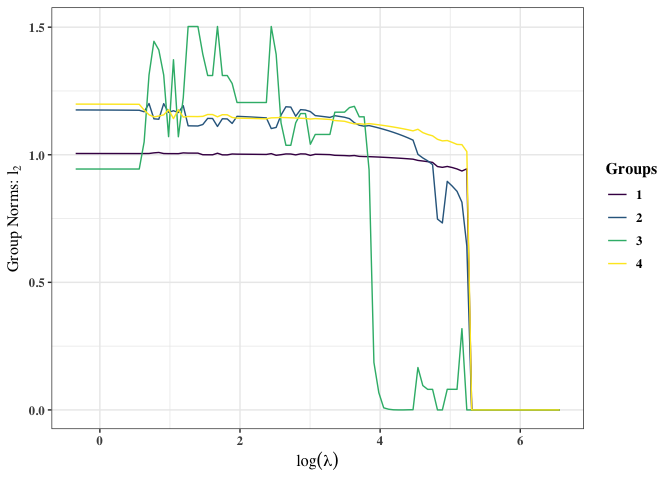
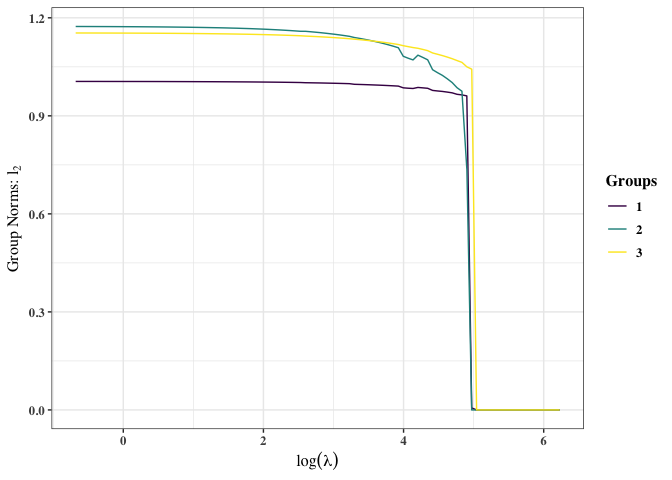
made updates

diff --git a/src/parameter_updates.cpp b/src/parameter_updates.cpp
@@ -183,9 +183,9 @@ arma::vec update_beta_irls_single(arma::mat x, arma::vec y, std::string family,
     // Add penalty if needed
     if (penalty) {
       if (family == "gamma"){
-        XtWX.diag() += lambda * (1/nu_g) * penalty_vec * pi_g * pi_g;
+        XtWX.diag() += 2 * lambda * (1/nu_g) * penalty_vec * pi_g * pi_g;
       } else {
-        XtWX.diag() += lambda * penalty_vec * pi_g * pi_g;
+        XtWX.diag() += 2 * lambda * penalty_vec * pi_g * pi_g;
       }
     }
 

diff --git a/README.md b/README.md
@@ -278,8 +278,8 @@ plot2(mod, X, y, 1, 2)
     #>     return(list(x = xyz$x/x.scal + yx.f * y, y = xyz$z/z.scal + 
     #>         yz.f * y))
     #> }
-    #> <bytecode: 0x117fd97c0>
-    #> <environment: 0x117ff0358>
+    #> <bytecode: 0x13c480da0>
+    #> <environment: 0x13c4515b8>
     #> 
     #> $points3d
     #> function (x, y = NULL, z = NULL, type = "p", ...) 
@@ -301,8 +301,8 @@ plot2(mod, X, y, 1, 2)
     #>     }
     #>     else points(x, y, type = type, ...)
     #> }
-    #> <bytecode: 0x117fdbda8>
-    #> <environment: 0x117ff0358>
+    #> <bytecode: 0x13c47f970>
+    #> <environment: 0x13c4515b8>
     #> 
     #> $plane3d
     #> function (Intercept, x.coef = NULL, y.coef = NULL, lty = "dashed", 
@@ -350,8 +350,8 @@ plot2(mod, X, y, 1, 2)
     #>         segments(x.min + y * yx.f, z1 + y * yz.f, x.max + y * 
     #>             yx.f, z2 + y * yz.f, lty = ltya, ...)
     #> }
-    #> <bytecode: 0x117fe10b0>
-    #> <environment: 0x117ff0358>
+    #> <bytecode: 0x13c476dd8>
+    #> <environment: 0x13c4515b8>
     #> 
     #> $box3d
     #> function (...) 
@@ -366,8 +366,8 @@ plot2(mod, X, y, 1, 2)
     #>     lines(c(x.min, x.min), c(z.min, z.max), ...)
     #>     lines(c(x.min, x.max), c(z.min, z.min), ...)
     #> }
-    #> <bytecode: 0x117fe70b0>
-    #> <environment: 0x117ff0358>
+    #> <bytecode: 0x13c46ac88>
+    #> <environment: 0x13c4515b8>
     #> 
     #> $contour3d
     #> function (f, x.count = 10, y.count = 10, type = "l", lty = "24", 
@@ -428,8 +428,8 @@ plot2(mod, X, y, 1, 2)
     #>         else points(x, y, type = type, lty = lty, ...)
     #>     }
     #> }
-    #> <bytecode: 0x117fe5440>
-    #> <environment: 0x117ff0358>
+    #> <bytecode: 0x13c45ebe0>
+    #> <environment: 0x13c4515b8>
     #> 
     #> $par.mar
     #> $par.mar$mar